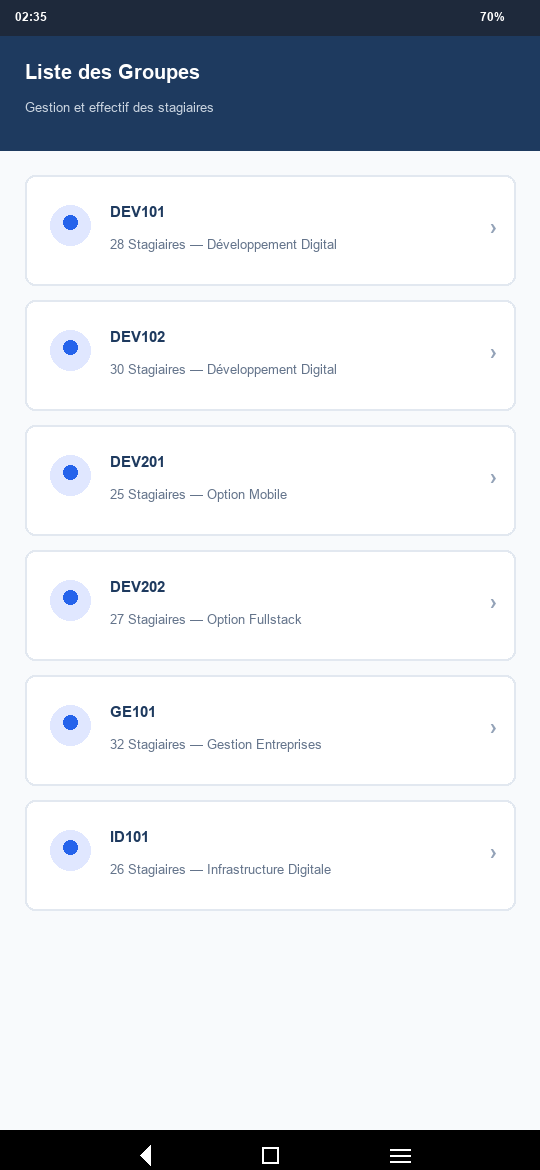
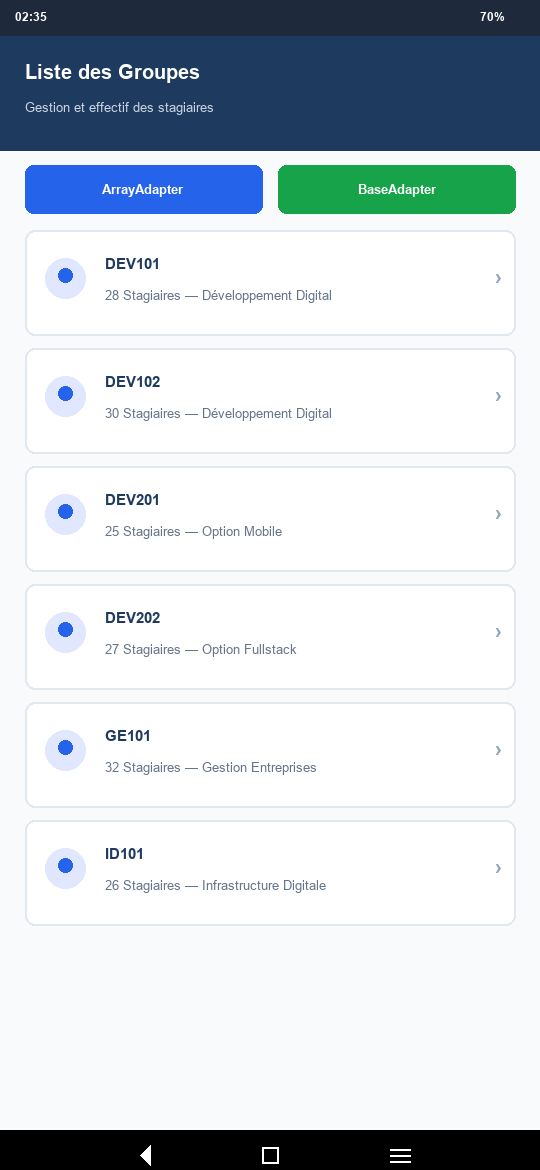
Add ArrayAdapter (Blue) and BaseAdapter (Green) toggle buttons in GroupesActivity

Changed region(s): [[0.0296, 0.1231, 0.9778, 0.7692], [0.3852, 0.7385, 0.6222, 0.7692], [0.9185, 0.2154, 0.9481, 0.2462]]

diff --git a/app/src/main/java/com/example/prsencemanager/GroupesActivity.kt b/app/src/main/java/com/example/prsencemanager/GroupesActivity.kt
@@ -4,7 +4,9 @@ import android.os.Bundle
 import android.view.LayoutInflater
 import android.view.View
 import android.view.ViewGroup
+import android.widget.ArrayAdapter
 import android.widget.BaseAdapter
+import android.widget.Button
 import android.widget.ListView
 import android.widget.TextView
 import android.widget.Toast
@@ -28,8 +30,11 @@ class GroupesActivity : AppCompatActivity() {
         )
 
         val listView = findViewById<ListView>(R.id.listGroupes)
+        val btnArrayAdapter = findViewById<Button>(R.id.btnArrayAdapter)
+        val btnBaseAdapter = findViewById<Button>(R.id.btnBaseAdapter)
 
-        val adapter = object : BaseAdapter() {
+        // 1. BaseAdapter personnalisé
+        val customBaseAdapter = object : BaseAdapter() {
             override fun getCount(): Int = groupes.size
             override fun getItem(position: Int): Any = groupes[position]
             override fun getItemId(position: Int): Long = position.toLong()
@@ -49,7 +54,28 @@ class GroupesActivity : AppCompatActivity() {
             }
         }
 
-        listView.adapter = adapter
+        // 2. ArrayAdapter simple
+        val arrayAdapter = ArrayAdapter(
+            this,
+            android.R.layout.simple_list_item_2,
+            android.R.id.text1,
+            groupes.map { "${it.nom}\n${it.effectif}" }
+        )
+
+        // Affichage par défaut avec BaseAdapter
+        listView.adapter = customBaseAdapter
+
+        // Clic sur le bouton Bleu (ArrayAdapter)
+        btnArrayAdapter.setOnClickListener {
+            listView.adapter = arrayAdapter
+            Toast.makeText(this, "Affichage activé avec : ArrayAdapter", Toast.LENGTH_SHORT).show()
+        }
+
+        // Clic sur le bouton Vert (BaseAdapter)
+        btnBaseAdapter.setOnClickListener {
+            listView.adapter = customBaseAdapter
+            Toast.makeText(this, "Affichage activé avec : BaseAdapter", Toast.LENGTH_SHORT).show()
+        }
 
         listView.setOnItemClickListener { _, _, position, _ ->
             val groupeSelectionne = groupes[position]
